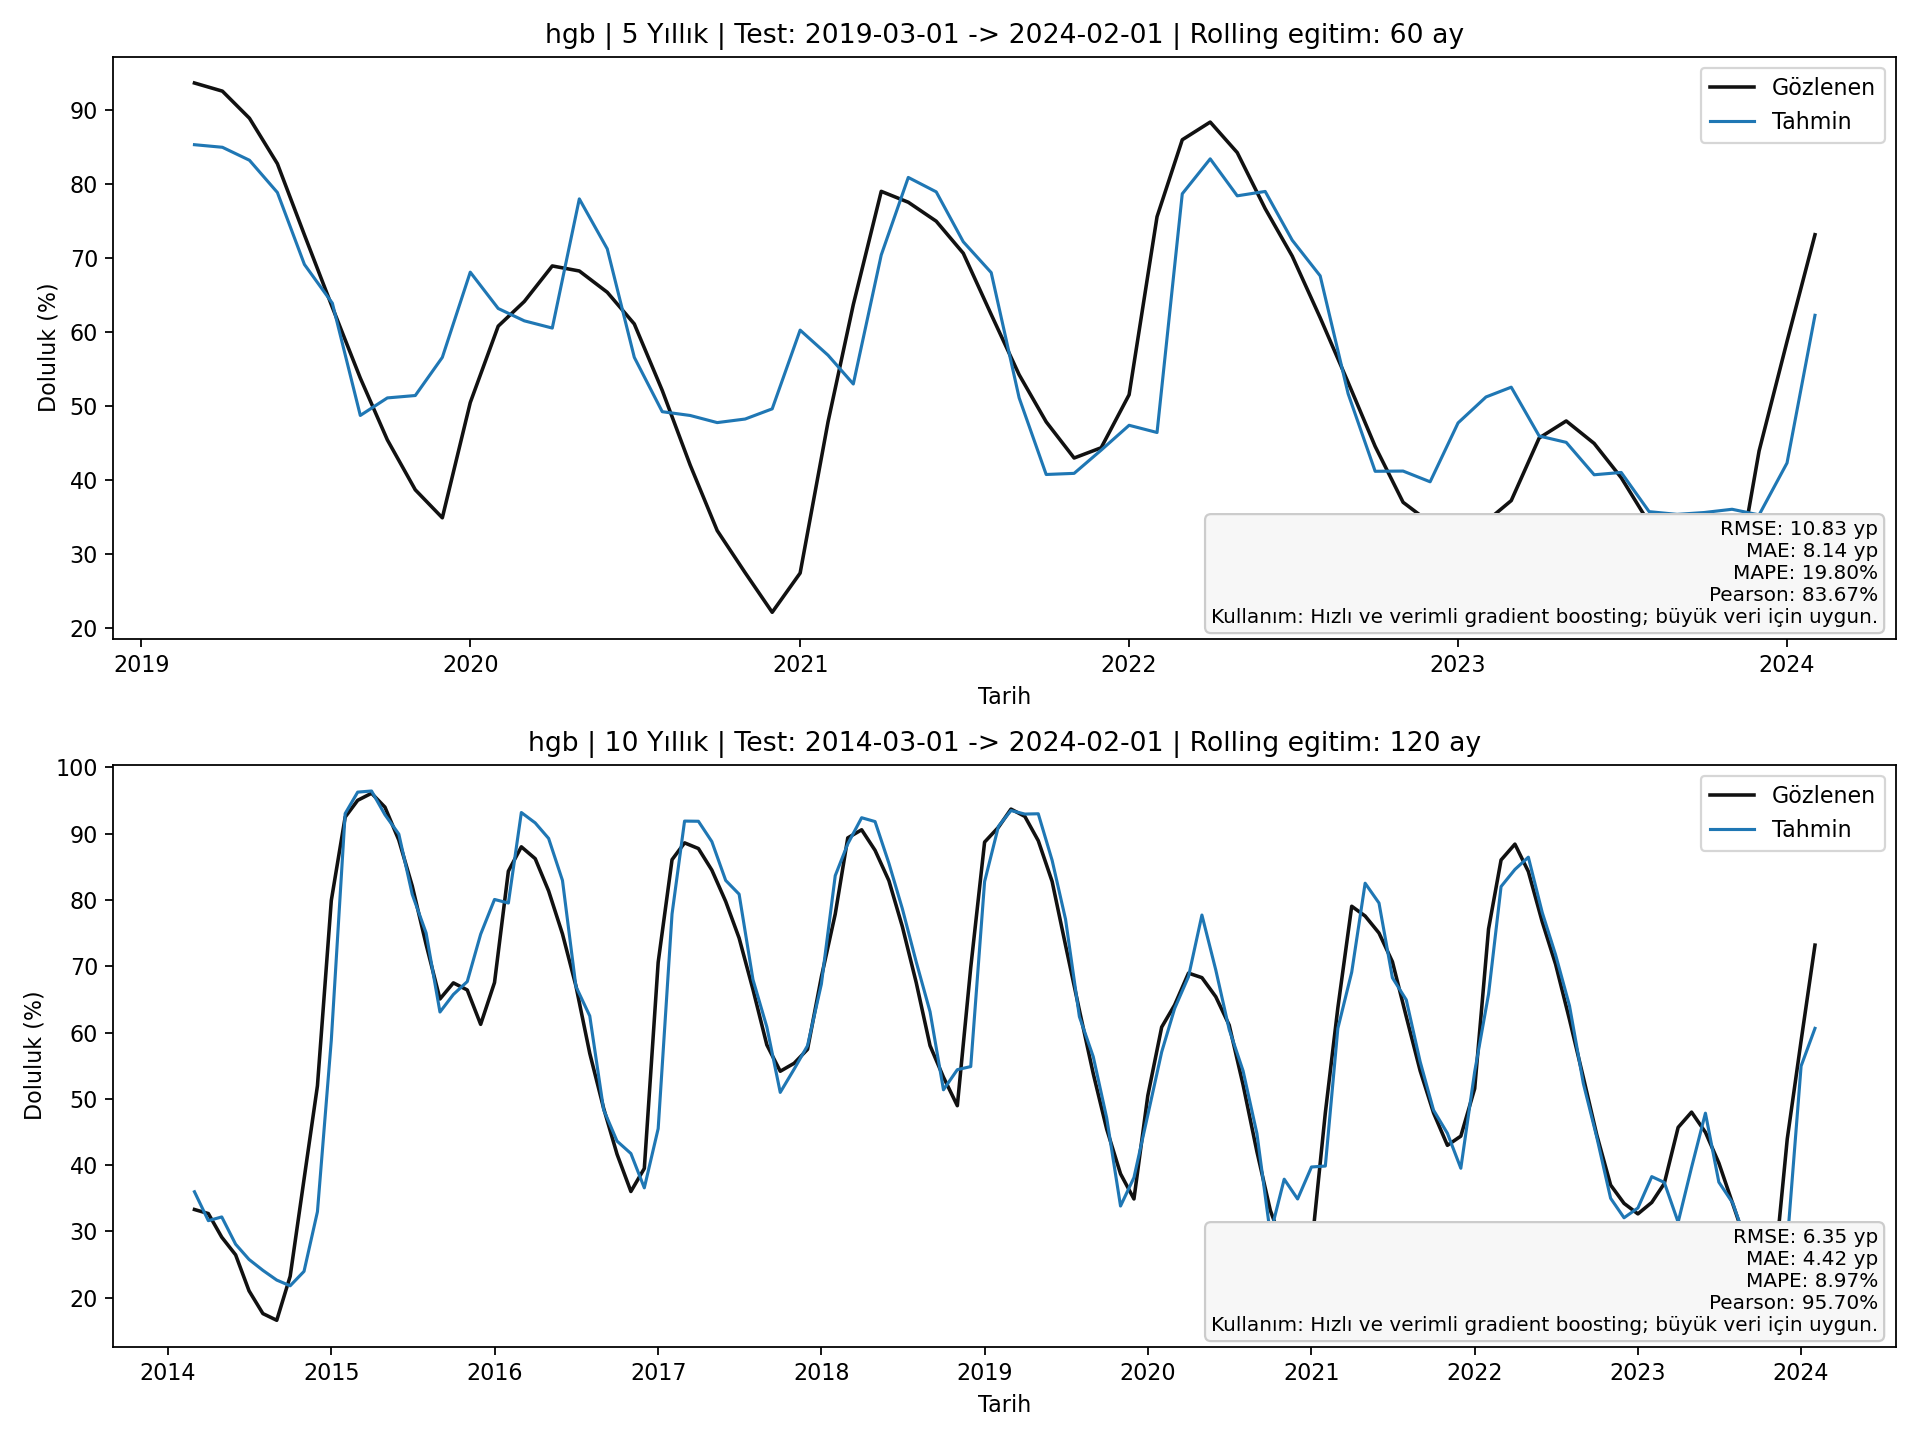
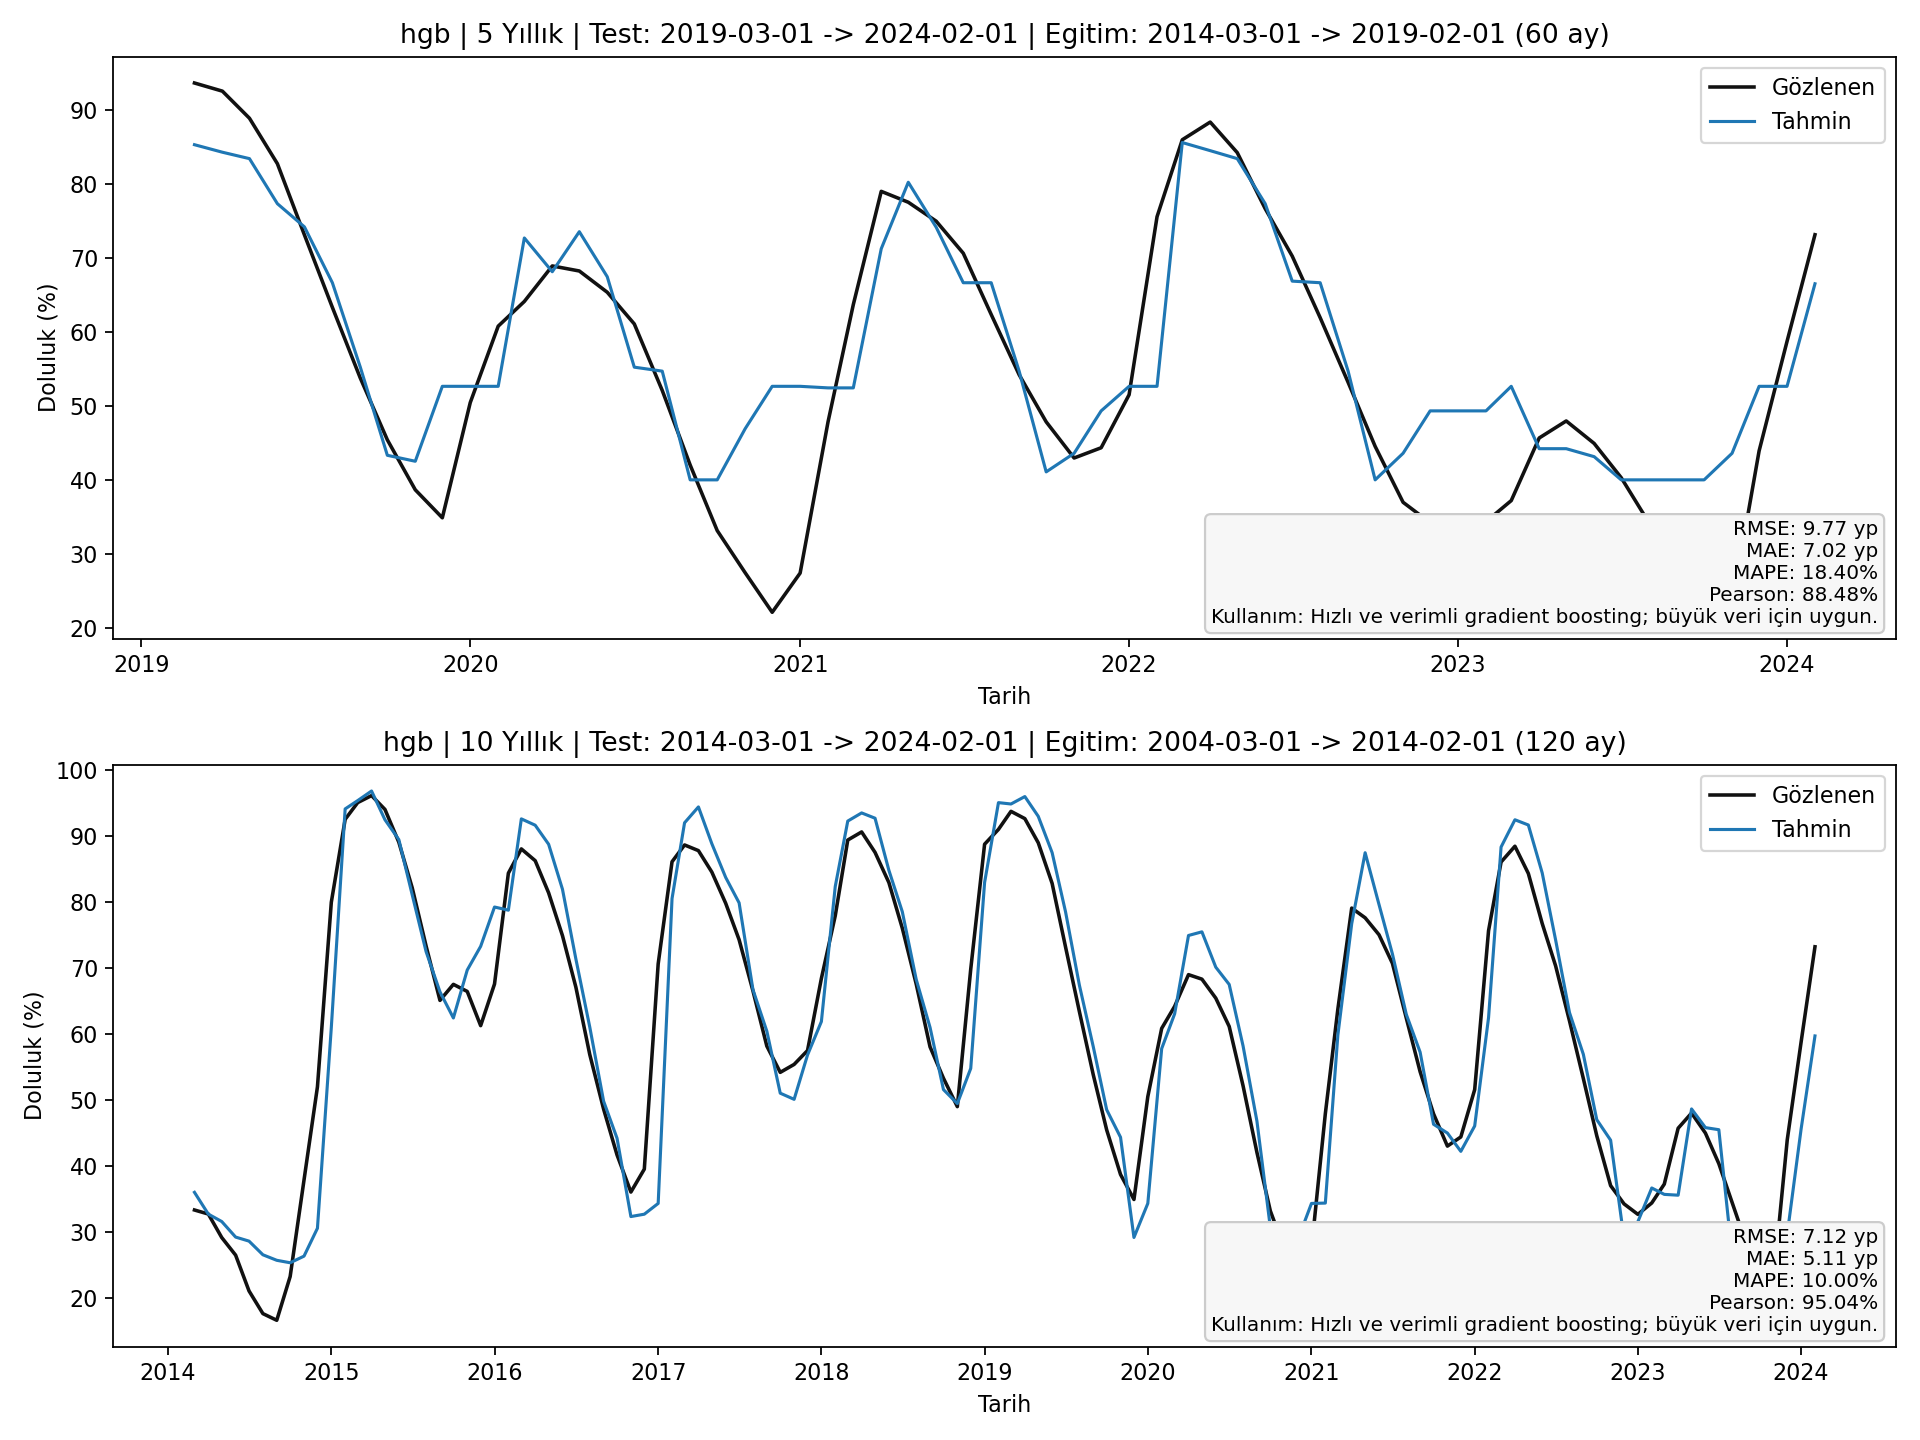
Grafikler: 5Y/10Y kartlarını sabit ufuk eğitim penceresiyle stabilize et

diff --git a/baraj_web/index.html b/baraj_web/index.html
@@ -471,7 +471,7 @@
             <div class="panel-media">
               <img class="media-wide zoomable" src="assets/img/ridge_projection_2000_2040.png?v=20260326-9" alt="Ridge 2000-2040" />
               <div class="media-row">
-                <img class="media-small zoomable" src="assets/img/ridge_5y_10y.png?v=20260326-13" alt="Ridge 5y/10y karşılaştırma" />
+                <img class="media-small zoomable" src="assets/img/ridge_5y_10y.png?v=20260326-14" alt="Ridge 5y/10y karşılaştırma" />
                 <img class="media-small zoomable" src="assets/img/ridge_projection_zoom_2040.png?v=20260326-9" alt="Ridge 2024-2040" />
               </div>
             </div>
@@ -489,7 +489,7 @@
             <div class="panel-media">
               <img class="media-wide zoomable" src="assets/img/gbr_projection_2000_2040.png?v=20260326-9" alt="GBR 2000-2040" />
               <div class="media-row">
-                <img class="media-small zoomable" src="assets/img/gbr_5y_10y.png?v=20260326-13" alt="GBR 5y/10y karşılaştırma" />
+                <img class="media-small zoomable" src="assets/img/gbr_5y_10y.png?v=20260326-14" alt="GBR 5y/10y karşılaştırma" />
                 <img class="media-small zoomable" src="assets/img/gbr_projection_zoom_2040.png?v=20260326-9" alt="GBR 2024-2040" />
               </div>
             </div>
@@ -507,7 +507,7 @@
             <div class="panel-media">
               <img class="media-wide zoomable" src="assets/img/hgb_projection_2000_2040.png?v=20260326-9" alt="HGB 2000-2040" />
               <div class="media-row">
-                <img class="media-small zoomable" src="assets/img/hgb_5y_10y.png?v=20260326-13" alt="HGB 5y/10y karşılaştırma" />
+                <img class="media-small zoomable" src="assets/img/hgb_5y_10y.png?v=20260326-14" alt="HGB 5y/10y karşılaştırma" />
                 <img class="media-small zoomable" src="assets/img/hgb_projection_zoom_2040.png?v=20260326-9" alt="HGB 2024-2040" />
               </div>
             </div>
@@ -525,7 +525,7 @@
             <div class="panel-media">
               <img class="media-wide zoomable" src="assets/img/rf_projection_2000_2040.png?v=20260326-9" alt="RF 2000-2040" />
               <div class="media-row">
-                <img class="media-small zoomable" src="assets/img/rf_5y_10y.png?v=20260326-13" alt="RF 5y/10y karşılaştırma" />
+                <img class="media-small zoomable" src="assets/img/rf_5y_10y.png?v=20260326-14" alt="RF 5y/10y karşılaştırma" />
                 <img class="media-small zoomable" src="assets/img/rf_projection_zoom_2040.png?v=20260326-9" alt="RF 2024-2040" />
               </div>
             </div>
@@ -543,7 +543,7 @@
             <div class="panel-media">
               <img class="media-wide zoomable" src="assets/img/etr_projection_2000_2040.png?v=20260326-9" alt="ETR 2000-2040" />
               <div class="media-row">
-                <img class="media-small zoomable" src="assets/img/etr_5y_10y.png?v=20260326-13" alt="ETR 5y/10y karşılaştırma" />
+                <img class="media-small zoomable" src="assets/img/etr_5y_10y.png?v=20260326-14" alt="ETR 5y/10y karşılaştırma" />
                 <img class="media-small zoomable" src="assets/img/etr_projection_zoom_2040.png?v=20260326-9" alt="ETR 2024-2040" />
               </div>
             </div>

diff --git a/index.html b/index.html
@@ -471,7 +471,7 @@
             <div class="panel-media">
               <img class="media-wide zoomable" src="assets/img/ridge_projection_2000_2040.png?v=20260326-9" alt="Ridge 2000-2040" />
               <div class="media-row">
-                <img class="media-small zoomable" src="assets/img/ridge_5y_10y.png?v=20260326-13" alt="Ridge 5y/10y karşılaştırma" />
+                <img class="media-small zoomable" src="assets/img/ridge_5y_10y.png?v=20260326-14" alt="Ridge 5y/10y karşılaştırma" />
                 <img class="media-small zoomable" src="assets/img/ridge_projection_zoom_2040.png?v=20260326-9" alt="Ridge 2024-2040" />
               </div>
             </div>
@@ -489,7 +489,7 @@
             <div class="panel-media">
               <img class="media-wide zoomable" src="assets/img/gbr_projection_2000_2040.png?v=20260326-9" alt="GBR 2000-2040" />
               <div class="media-row">
-                <img class="media-small zoomable" src="assets/img/gbr_5y_10y.png?v=20260326-13" alt="GBR 5y/10y karşılaştırma" />
+                <img class="media-small zoomable" src="assets/img/gbr_5y_10y.png?v=20260326-14" alt="GBR 5y/10y karşılaştırma" />
                 <img class="media-small zoomable" src="assets/img/gbr_projection_zoom_2040.png?v=20260326-9" alt="GBR 2024-2040" />
               </div>
             </div>
@@ -507,7 +507,7 @@
             <div class="panel-media">
               <img class="media-wide zoomable" src="assets/img/hgb_projection_2000_2040.png?v=20260326-9" alt="HGB 2000-2040" />
               <div class="media-row">
-                <img class="media-small zoomable" src="assets/img/hgb_5y_10y.png?v=20260326-13" alt="HGB 5y/10y karşılaştırma" />
+                <img class="media-small zoomable" src="assets/img/hgb_5y_10y.png?v=20260326-14" alt="HGB 5y/10y karşılaştırma" />
                 <img class="media-small zoomable" src="assets/img/hgb_projection_zoom_2040.png?v=20260326-9" alt="HGB 2024-2040" />
               </div>
             </div>
@@ -525,7 +525,7 @@
             <div class="panel-media">
               <img class="media-wide zoomable" src="assets/img/rf_projection_2000_2040.png?v=20260326-9" alt="RF 2000-2040" />
               <div class="media-row">
-                <img class="media-small zoomable" src="assets/img/rf_5y_10y.png?v=20260326-13" alt="RF 5y/10y karşılaştırma" />
+                <img class="media-small zoomable" src="assets/img/rf_5y_10y.png?v=20260326-14" alt="RF 5y/10y karşılaştırma" />
                 <img class="media-small zoomable" src="assets/img/rf_projection_zoom_2040.png?v=20260326-9" alt="RF 2024-2040" />
               </div>
             </div>
@@ -543,7 +543,7 @@
             <div class="panel-media">
               <img class="media-wide zoomable" src="assets/img/etr_projection_2000_2040.png?v=20260326-9" alt="ETR 2000-2040" />
               <div class="media-row">
-                <img class="media-small zoomable" src="assets/img/etr_5y_10y.png?v=20260326-13" alt="ETR 5y/10y karşılaştırma" />
+                <img class="media-small zoomable" src="assets/img/etr_5y_10y.png?v=20260326-14" alt="ETR 5y/10y karşılaştırma" />
                 <img class="media-small zoomable" src="assets/img/etr_projection_zoom_2040.png?v=20260326-9" alt="ETR 2024-2040" />
               </div>
             </div>

diff --git a/scripts/build_model_cards_5y_10y.py b/scripts/build_model_cards_5y_10y.py
@@ -170,54 +170,34 @@ def build_features(df: pd.DataFrame, drop_cols: list[str]) -> pd.DataFrame:
     return out
 
 
-def split_window(df, train_start, train_end, test_start, test_end):
-    train = df[(df["date"] >= train_start) & (df["date"] <= train_end)].copy()
-    test = df[(df["date"] >= test_start) & (df["date"] <= test_end)].copy()
-    return train, test
-
-
-def rolling_window_predict(
+def fixed_window_predict(
     df: pd.DataFrame,
     model_template,
-    lookback_months: int,
+    train_start: pd.Timestamp,
+    train_end: pd.Timestamp,
     test_start: pd.Timestamp,
     test_end: pd.Timestamp,
 ):
     data = df.sort_values("date").reset_index(drop=True).copy()
     feat_cols = [c for c in data.columns if c not in ["date", "fill_pct"]]
+    train = data[(data["date"] >= train_start) & (data["date"] <= train_end)].copy()
     test = data[(data["date"] >= test_start) & (data["date"] <= test_end)].copy()
+    if train.empty or test.empty:
+        return (
+            np.asarray([], dtype="datetime64[ns]"),
+            np.asarray([], dtype=float),
+            np.asarray([], dtype=float),
+        )
 
-    dates = []
-    y_true = []
-    y_pred = []
-    train_windows = []
-
-    for _, row in test.iterrows():
-        cur_date = pd.Timestamp(row["date"])
-        train_end = (cur_date - pd.DateOffset(months=1)).normalize()
-        train_start = (train_end - pd.DateOffset(months=lookback_months - 1)).normalize()
-        train = data[(data["date"] >= train_start) & (data["date"] <= train_end)].copy()
-        if len(train) < lookback_months:
-            continue
-
-        X_train = train[feat_cols].to_numpy(dtype=float)
-        y_train = train["fill_pct"].to_numpy(dtype=float)
-        X_cur = np.asarray(row[feat_cols], dtype=float).reshape(1, -1)
-
-        model = clone(model_template)
-        model.fit(X_train, y_train)
-        pred = float(model.predict(X_cur)[0])
-
-        dates.append(cur_date)
-        y_true.append(float(row["fill_pct"]))
-        y_pred.append(pred)
-        train_windows.append((train_start, train_end))
+    model = clone(model_template)
+    X_train = train[feat_cols].to_numpy(dtype=float)
+    y_train = train["fill_pct"].to_numpy(dtype=float)
+    model.fit(X_train, y_train)
 
     return (
-        np.asarray(dates),
-        np.asarray(y_true, dtype=float),
-        np.asarray(y_pred, dtype=float),
-        train_windows,
+        test["date"].to_numpy(),
+        test["fill_pct"].to_numpy(dtype=float),
+        np.clip(model.predict(test[feat_cols].to_numpy(dtype=float)), 0.0, 100.0),
     )
 
 
@@ -305,42 +285,45 @@ def main():
     test10_start = (end_date - pd.DateOffset(months=119)).normalize()
     test10_end = end_date
 
+    train5_end = (test5_start - pd.DateOffset(months=1)).normalize()
+    train5_start = (train5_end - pd.DateOffset(months=59)).normalize()
+    train10_end = (test10_start - pd.DateOffset(months=1)).normalize()
+    train10_start = (train10_end - pd.DateOffset(months=119)).normalize()
+
     windows = {
-        "5y": (60, test5_start, test5_end),
-        "10y": (120, test10_start, test10_end),
+        "5y": (train5_start, train5_end, test5_start, test5_end, 60),
+        "10y": (train10_start, train10_end, test10_start, test10_end, 120),
     }
 
     models = model_catalog()
     rows = []
     per_model = {name: {} for name in models.keys()}
 
-    for wlabel, (lookback_months, test_start, test_end) in windows.items():
+    for wlabel, (train_start, train_end, test_start, test_end, lookback_months) in windows.items():
         for name, model in models.items():
-            dates, y_true, y_pred, train_windows = rolling_window_predict(
+            dates, y_true, y_pred = fixed_window_predict(
                 feat,
                 model,
-                lookback_months=lookback_months,
+                train_start=train_start,
+                train_end=train_end,
                 test_start=test_start,
                 test_end=test_end,
             )
             if len(y_true) == 0:
                 continue
             metrics = eval_metrics(y_true, y_pred)
-            first_train = train_windows[0] if train_windows else (None, None)
-            last_train = train_windows[-1] if train_windows else (None, None)
             rows.append({
                 "model": name,
                 "train_window": (
-                    f"rolling_{lookback_months}m "
-                    f"({first_train[0].date()} -> {first_train[1].date()}) .. "
-                    f"({last_train[0].date()} -> {last_train[1].date()})"
+                    f"fixed_{lookback_months}m "
+                    f"({train_start.date()} -> {train_end.date()})"
                 ),
                 "window": f"{test_start.date()} -> {test_end.date()}",
                 **metrics,
             })
 
             per_model[name][wlabel] = (
-                f"Test: {test_start.date()} -> {test_end.date()} | Rolling egitim: {lookback_months} ay",
+                f"Test: {test_start.date()} -> {test_end.date()} | Egitim: {train_start.date()} -> {train_end.date()} ({lookback_months} ay)",
                 dates,
                 y_true,
                 y_pred,
